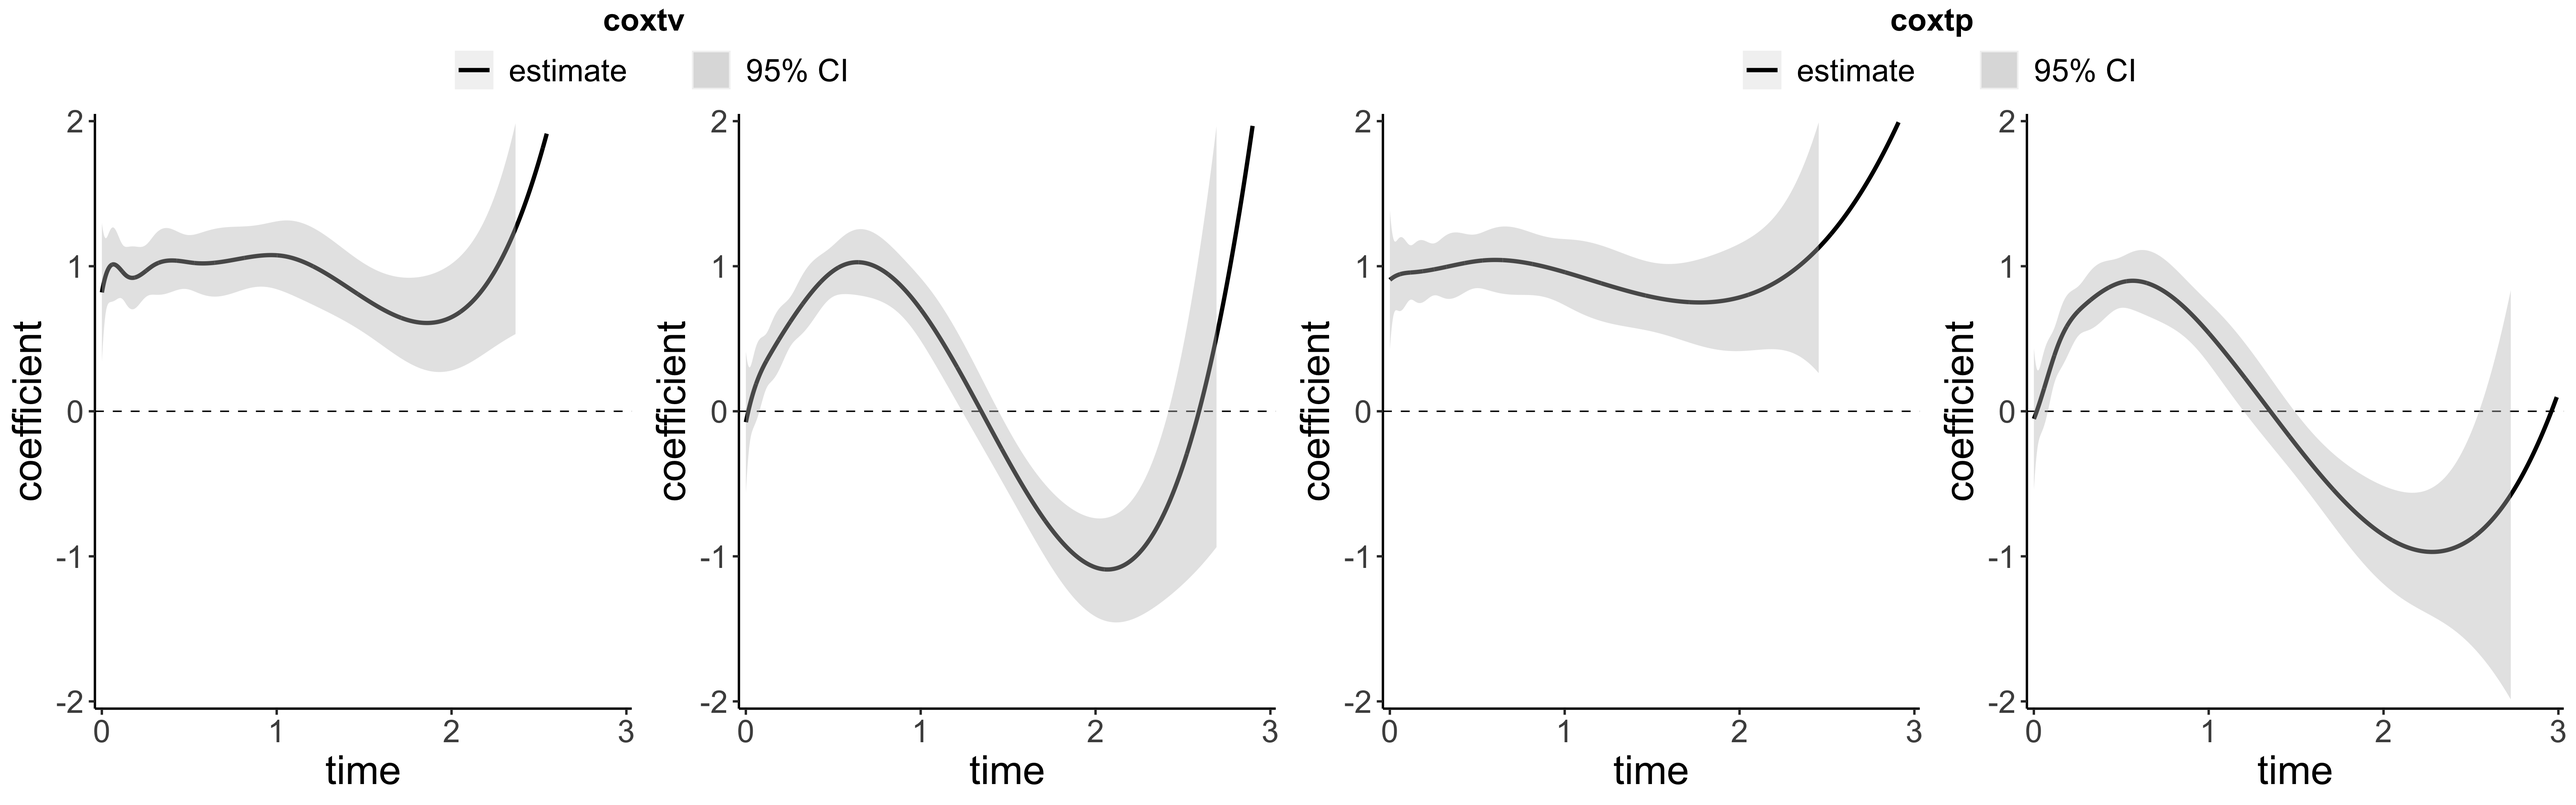
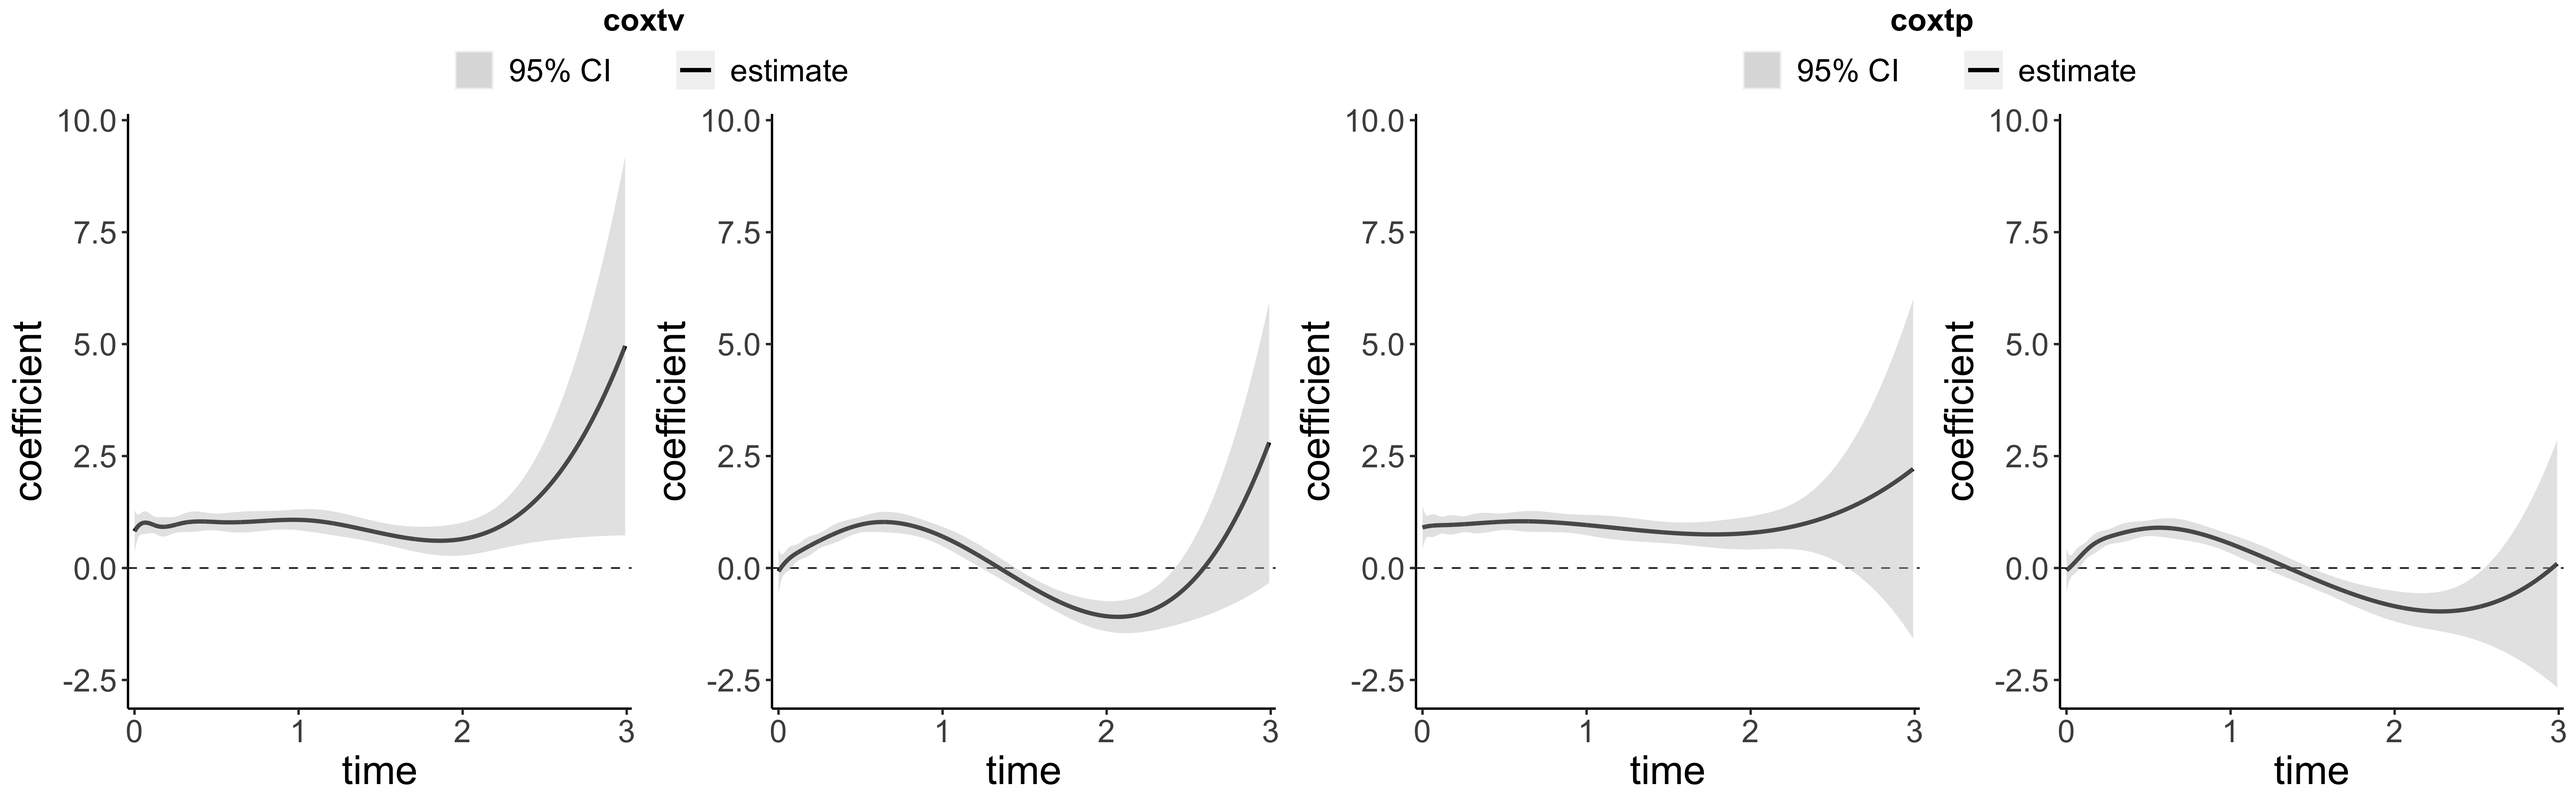
Add files via upload

diff --git a/JOSS/paper.md b/JOSS/paper.md
@@ -64,6 +64,7 @@ Once we have established the basis functions for the time-varying coefficients, 
 
 Finally, `surtvep` offers a comprehensive suite of hypothesis testing capabilities, allowing researchers to assess the validity and significance of their models. Specifically, `surtvep` can perform the following hypothesis tests: (1) testing the proportional hazards assumption to verify the model's suitability for the given data; and (2) examining the pointwise significance of covariates effects at different event times to assess the impact of each covariate on the outcome of interest. To conduct these hypothesis tests, `surtvep` employs the Wald test statistic, a widely-used method for inference.
 
+
 # Quick Start 
 
 The purpose of this section is to introduce the basics of `surtvep`. Interested users are referred to the online tutorial at [*https://um-kevinhe.github.io/surtvep/index.html*](https://um-kevinhe.github.io/surtvep/index.html) for detailed instructions.
@@ -104,11 +105,14 @@ Various methods are provided for the objects such as plotting and hypothesis tes
 We can visualize the time-varying coefficients through the plot method:
 
 ```r
-plot(fit.tv, ylim = c(-2,2))
-plot(fit.ic$mAIC, ylim = c(-2,2))
+plot(fit.tv, ylim = c(-3,10))
+plot(fit.ic$mAIC, ylim = c(-3,10))
 ```
 
-![The estimated time-varying coefficients from `coxtv` and `coxtp`. The tuning parameter for `coxtp` is selected using mAIC.  \label{fig:coxtv}](coxtv_tp.png)
+![The estimated time-varying coefficients (log hazard ratio) from `coxtv` and `coxtp`. The tuning parameter for `coxtp` is selected using mAIC.  \label{fig:coxtv}](coxtv_tp.png)
+
+
+In utilizing the `coxtv` and `coxtp` functions, users have the flexibility to choose based on their dataset's specifications. Numerical instabilities are commonly encountered when analyzing survival data of a small sample size or when the data includes some binary covariates with proportions that approach either zero or one. In these scenarios, the second-order information matrix can become ill-conditioned. See discussion in [@wu2022scalable; @lfluo2023smmr]. In these intricacies, we recommend the use of the penalized method, `coxtp`. When determining the number of basis functions, a typical range is between 5-10. Though the choice is somewhat flexible, it has limited impact on results unless set too small [@gray1992flexible]. Users might consider increasing this number when applying the penalized method.
 
 
 # Data Example 
